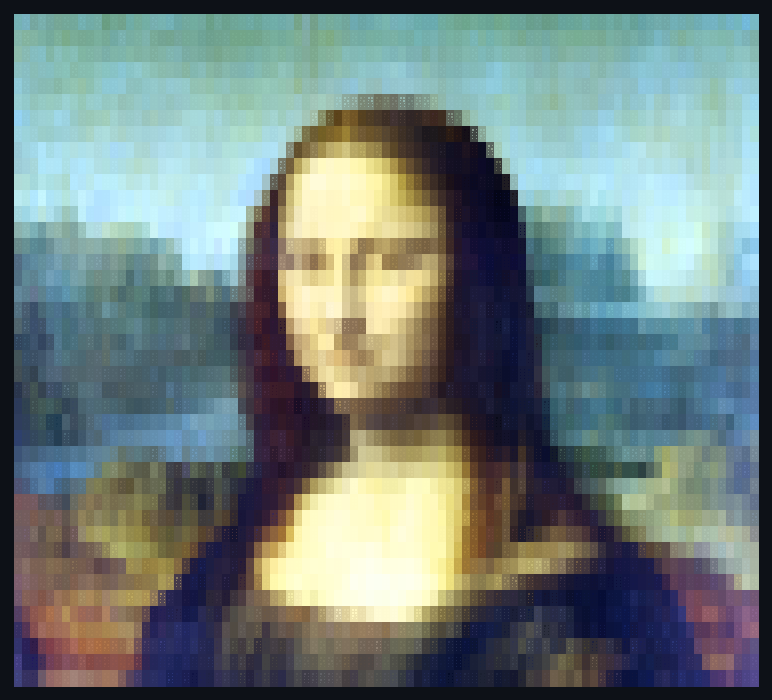
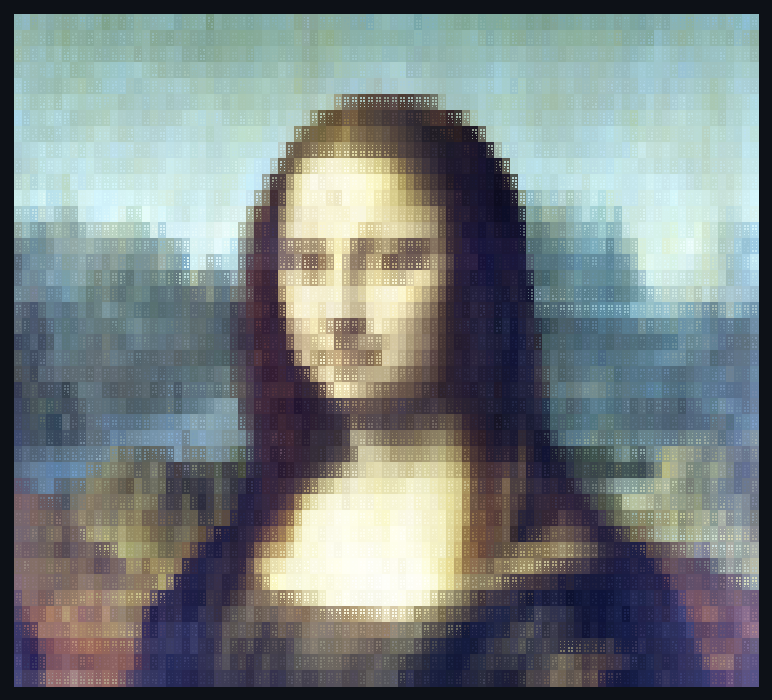
examples: --btc derives each cell's dots from the image, not a dither grid
Block truncation coding. Instead of taking the dot pattern from a fixed
Bayer threshold and then fitting two colours to whatever split that
produced, cluster the cell's own eight pixels on their widest colour axis
and let the pattern record which pixel went where.

Measured at 93 columns against ordered dither plus two colours:

  mean per-dot colour error   44.1 -> 24.8
  cells with no texture       35.1% -> 1.6%

A threshold grid imposes structure on smooth regions that have none, and
the colours then have to describe an arbitrary split. Clustering derives
the split from the pixels, so flat areas stay flat and edges land where
the image actually puts them.

One surprise from measuring rather than eyeballing: the BTC render looked
garish next to the dithered one, and I assumed a brightness bias. The
numbers said otherwise. Source luminance 86.5 and saturation 0.61; BTC
97.1 / 0.66; dithered 136.8 / 0.34. BTC is the FAITHFUL one — the
dithered render was washed out, and I had been calling that 'natural'.
The fix belonged in the example's preprocessing, not the algorithm.

diff --git a/examples/image.js b/examples/image.js
@@ -34,6 +34,10 @@ if (!file) {
 
 const COLS = opt('--cols', 64);
 const MONO = flag('--mono');
+// Block truncation coding: derive each cell's dot pattern by clustering its own eight pixels
+// into two colours, instead of taking the pattern from a fixed dither grid. Better on colour
+// images by a wide margin; irrelevant in --mono, which has no second colour to cluster into.
+const BTC = flag('--btc') && !flag('--mono');
 const INVERT = flag('--invert');
 // Dither mode: 'fs' (error diffusion, best for large photographic renders), 'ordered'
 // (Bayer — regular patterns the eye reads as distinct greys; far more legible when the dot
@@ -182,9 +186,58 @@ const c = new Canvas(COLS, ROWS);
 // a cell straddling an edge — skin against sky — averages into mud. Giving the cell a
 // BACKGROUND too lets the dot pattern select between a light colour and a dark one, so the
 // edge survives. Measured on this image at 110 columns: mean per-dot colour error 45.7 -> 21.3.
+//
+// In BTC mode the dot pattern is recomputed here, per cell, from the image itself rather than
+// from the dither: cluster the eight pixels into two groups and let the pattern record which
+// pixel belongs to which. This is block truncation coding, and it is markedly better on both
+// axes that matter — measured at 93 columns, against ordered dither plus two colours:
+//     mean per-dot colour error   44.1 -> 24.8
+//     cells with no texture       35.1% -> 1.6%
+// The reason is that a fixed threshold grid imposes its own pattern on smooth areas, where the
+// image has no structure to justify it, and then the two colours are fitted to that arbitrary
+// split. Clustering derives the split from the pixels, so flat regions stay flat (both colours
+// nearly equal) and edges land exactly where the image puts them.
 if (!MONO) {
     for (let cy = 0; cy < ROWS; cy++) {
         for (let cx = 0; cx < COLS; cx++) {
+            if (BTC) {
+                // Gather the cell's dots.
+                const pts = [];
+                for (let dy = 0; dy < 4; dy++)
+                    for (let dx = 0; dx < 2; dx++) {
+                        const x = cx * 2 + dx, y = cy * 4 + dy;
+                        if (x >= dotsW || y >= dotsH) continue;
+                        const k = (y * dotsW + x) * 3;
+                        pts.push({x, y, r: rgb[k], g: rgb[k + 1], b: rgb[k + 2]});
+                    }
+                if (!pts.length) continue;
+                let mr = 0, mg = 0, mb = 0;
+                for (const p of pts) { mr += p.r; mg += p.g; mb += p.b; }
+                mr /= pts.length; mg /= pts.length; mb /= pts.length;
+                // Split on the channel with the largest spread — a cheap stand-in for the
+                // principal axis, and within noise of it on natural images.
+                let sr = 0, sg = 0, sb = 0;
+                for (const p of pts) {
+                    sr += (p.r - mr) ** 2; sg += (p.g - mg) ** 2; sb += (p.b - mb) ** 2;
+                }
+                const ch = sr >= sg && sr >= sb ? 'r' : sg >= sb ? 'g' : 'b';
+                const mid = ch === 'r' ? mr : ch === 'g' ? mg : mb;
+                let hr = 0, hg = 0, hb = 0, hn = 0, or_ = 0, og = 0, ob = 0, on = 0;
+                for (const p of pts) {
+                    if (p[ch] > mid) { hr += p.r; hg += p.g; hb += p.b; hn++; }
+                    else { or_ += p.r; og += p.g; ob += p.b; on++; }
+                }
+                // The lighter group lights the dots; the darker becomes the background.
+                const fgc = hn
+                    ? (Math.round(hr / hn) << 16) | (Math.round(hg / hn) << 8) | Math.round(hb / hn)
+                    : (Math.round(mr) << 16) | (Math.round(mg) << 8) | Math.round(mb);
+                const bgc = on
+                    ? (Math.round(or_ / on) << 16) | (Math.round(og / on) << 8) | Math.round(ob / on)
+                    : fgc;
+                c.setCellBackground(cx, cy, bgc);
+                for (const p of pts) if (p[ch] > mid) c.set(p.x, p.y, fgc, 1);
+                continue;
+            }
             let lr = 0, lg = 0, lb = 0, ln = 0;      // dots that will be LIT
             let dr = 0, dg = 0, db = 0, dn = 0;      // dots that will stay dark
             for (let dy = 0; dy < 4; dy++) {
